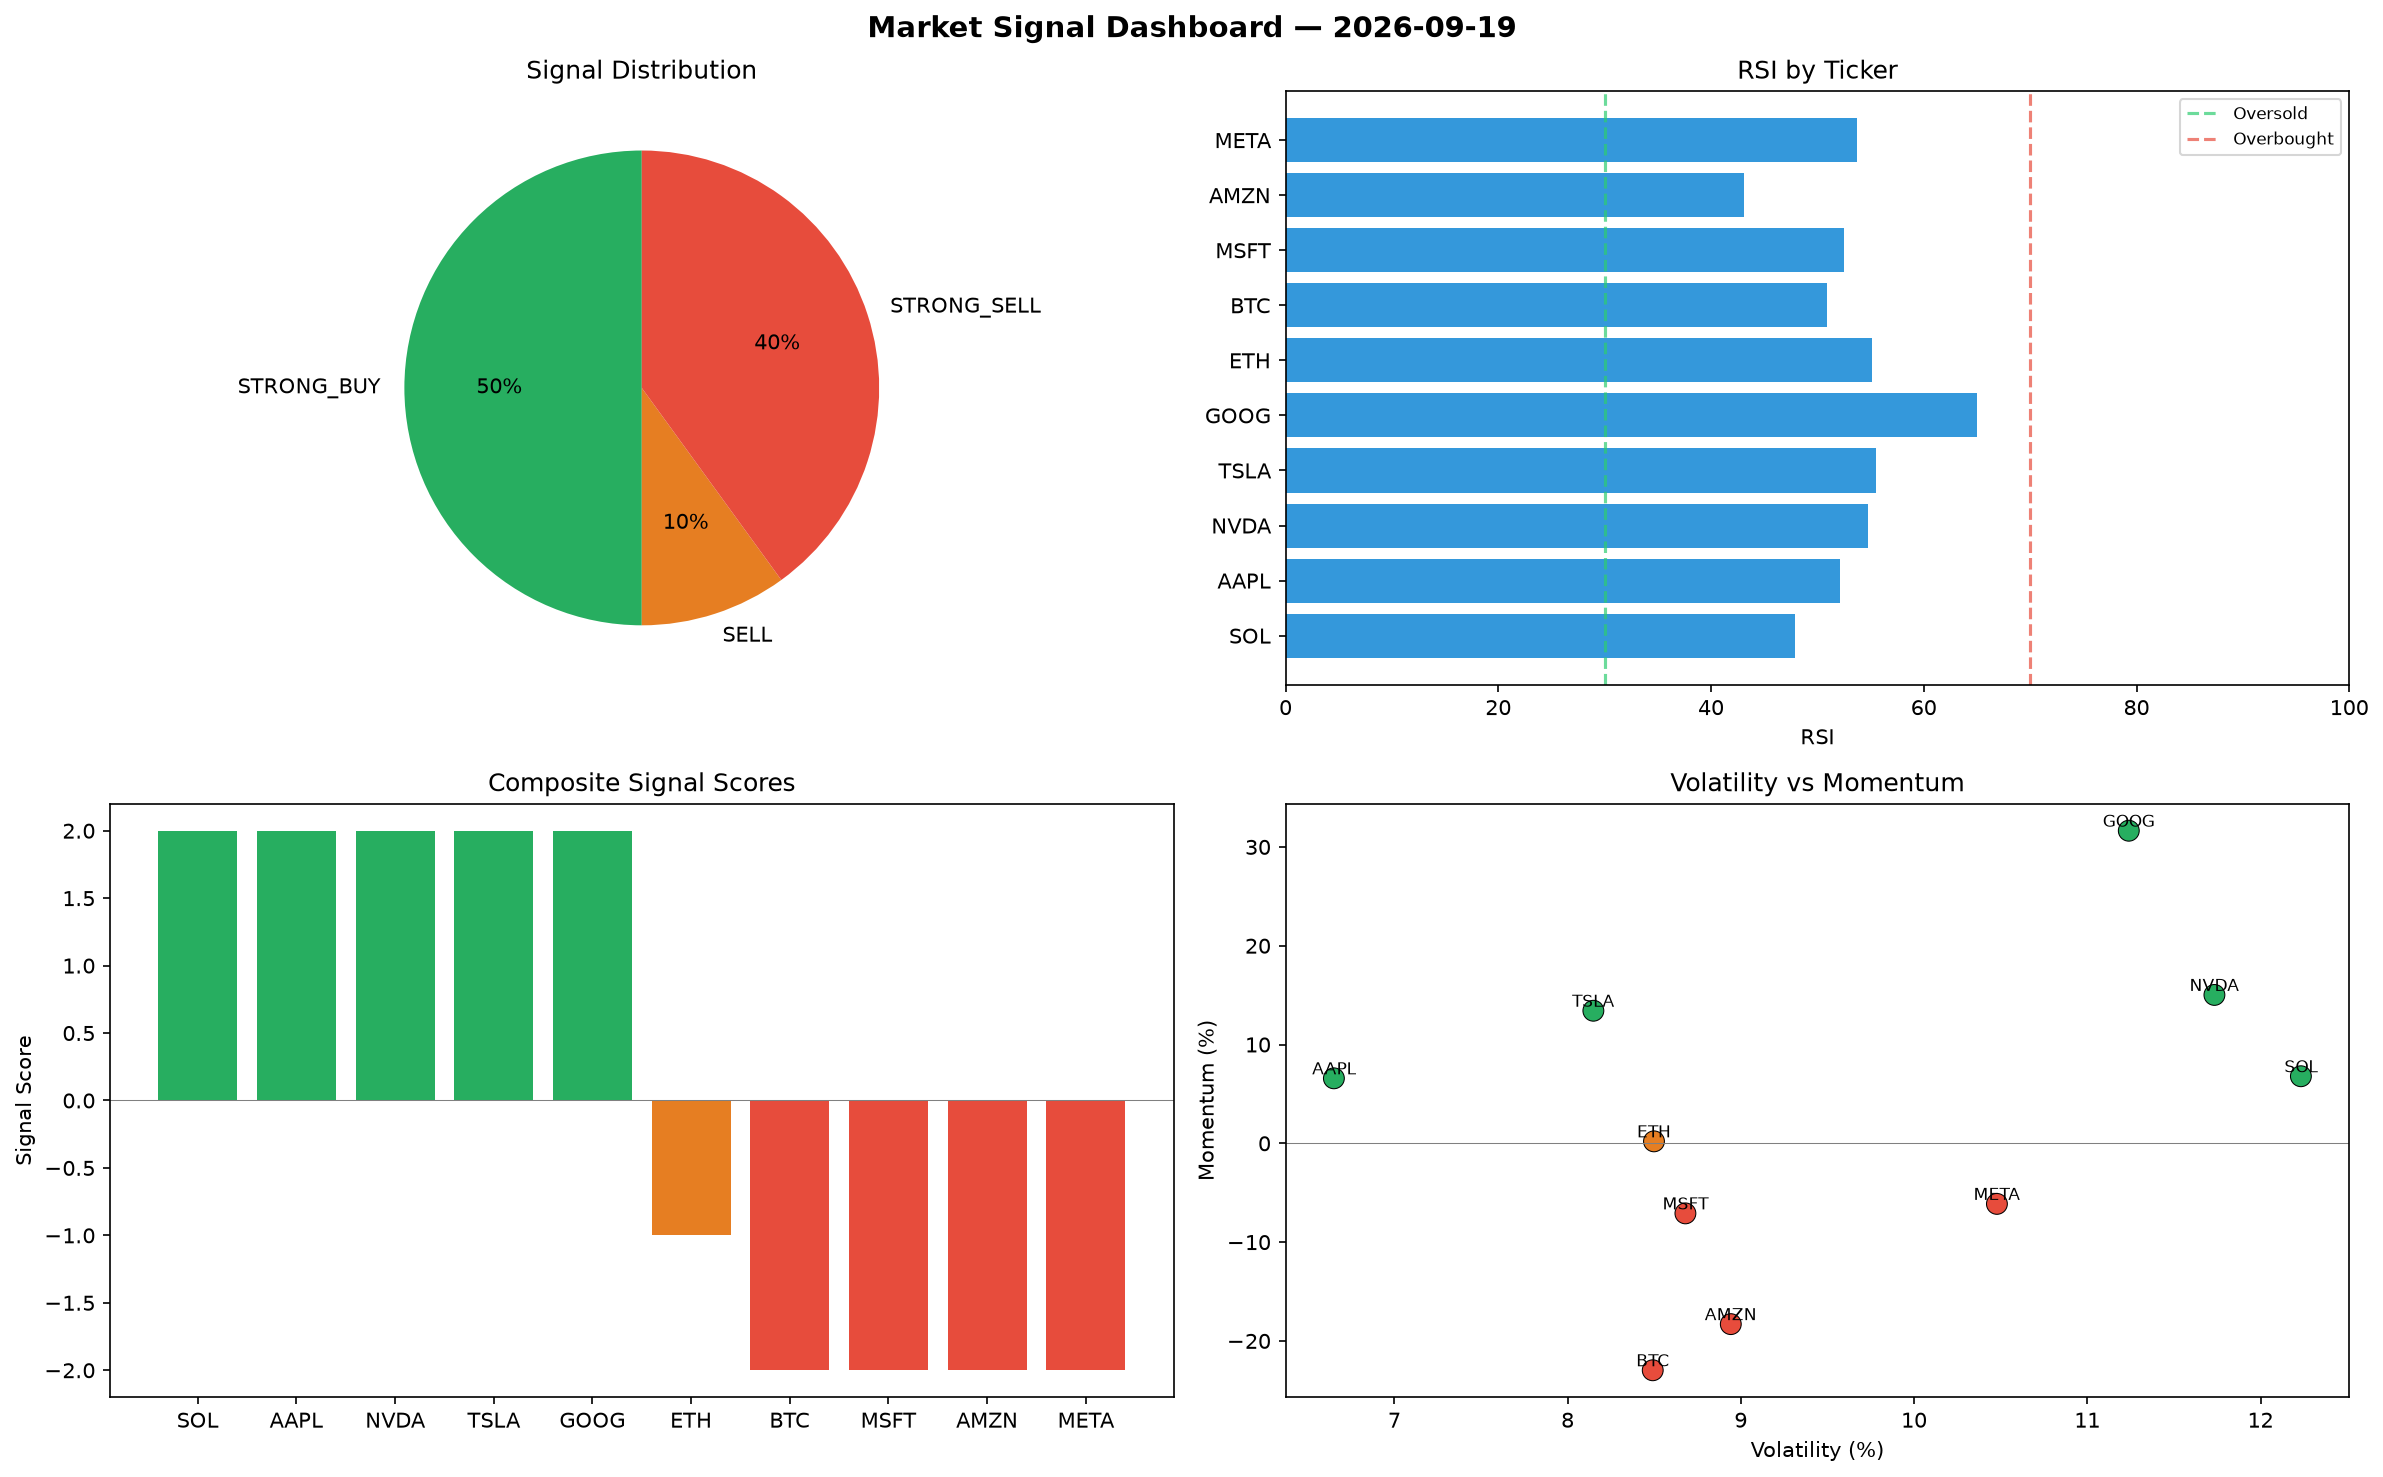
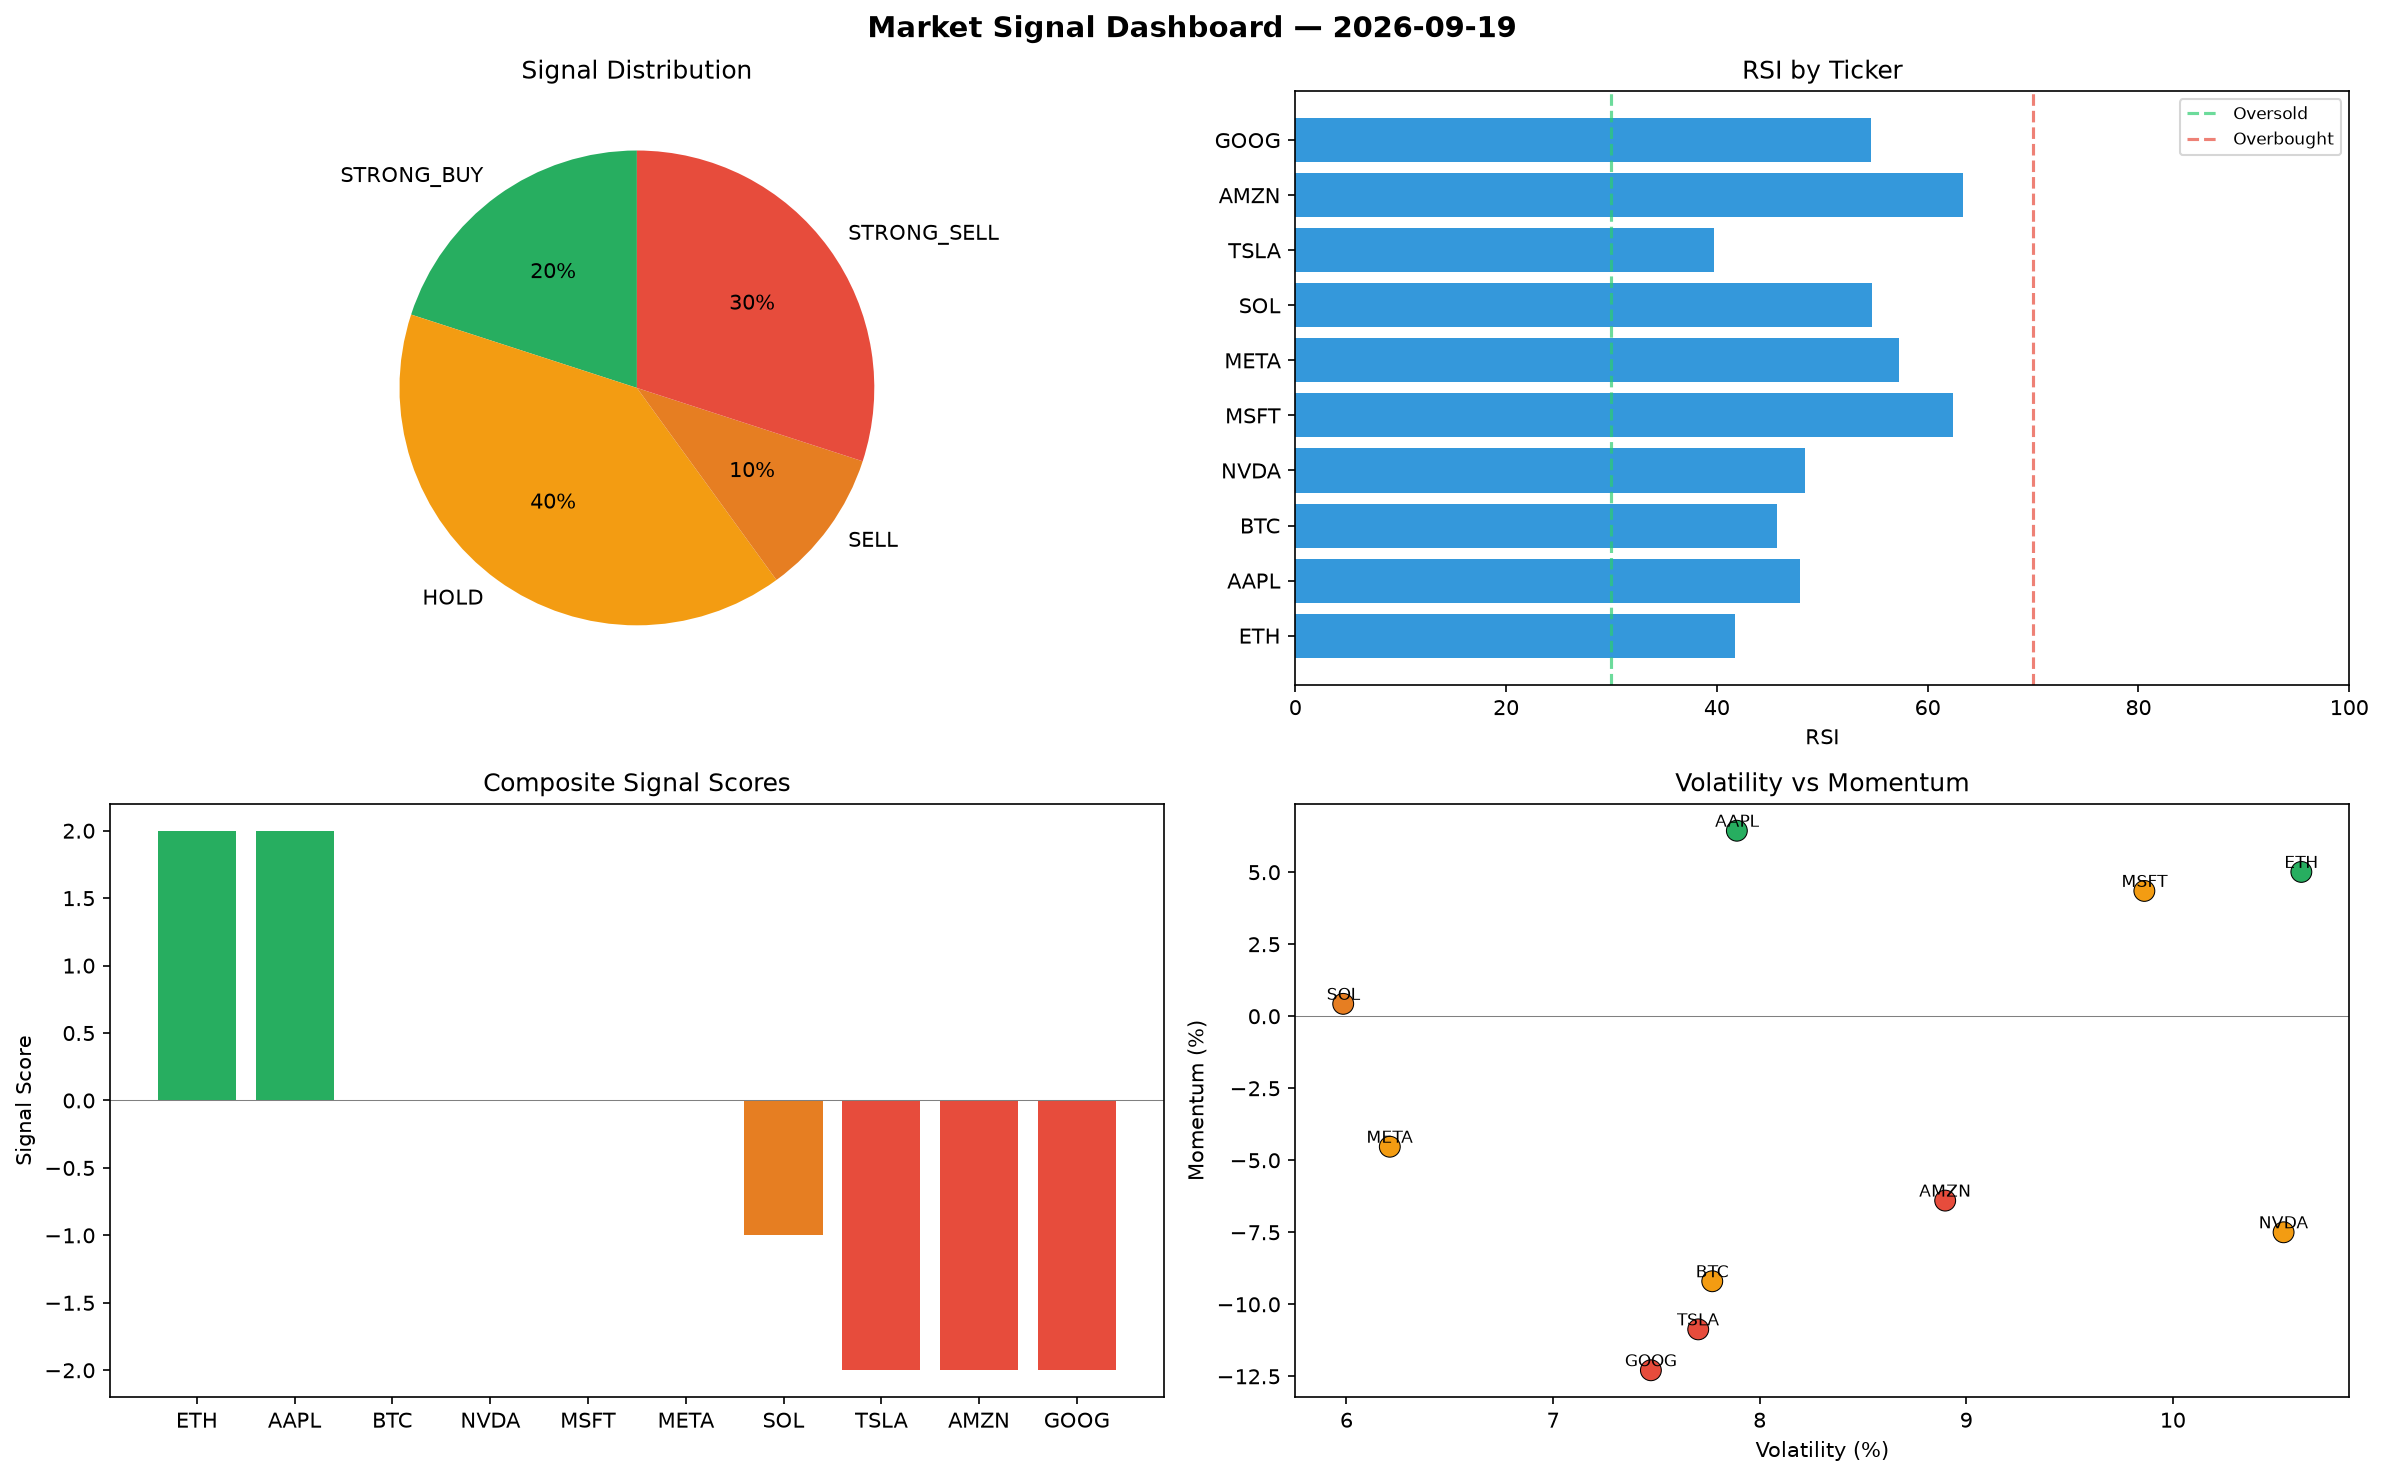
automated-bots: market signals 2026-09-19T12:36

diff --git a/logs/2026-09-19.md b/logs/2026-09-19.md
@@ -1,6 +1,6 @@
 # Market Signal Report — 2026-09-19
 
-**Run ID:** `a895f01271` | **Buy:** 5 | **Sell:** 5 | **Hold:** 0
+**Run ID:** `05849af231` | **Buy:** 2 | **Sell:** 4 | **Hold:** 4
 
 ![Dashboard](2026-09-19_dashboard.png)
 
@@ -8,28 +8,28 @@
 
 | Ticker | Price | Signal | Score | RSI | Momentum | Confidence |
 |--------|-------|--------|-------|-----|----------|------------|
-| SOL | $1479.01 | **STRONG_BUY** | 2 | 47.9 | 0.0679 | 0.5 |
-| AAPL | $665.7 | **STRONG_BUY** | 2 | 52.1 | 0.0658 | 0.5 |
-| NVDA | $2536.05 | **STRONG_BUY** | 2 | 54.78 | 0.1502 | 0.5 |
-| TSLA | $749.28 | **STRONG_BUY** | 2 | 55.49 | 0.1342 | 0.5 |
-| GOOG | $1618.15 | **STRONG_BUY** | 2 | 65.02 | 0.3164 | 0.5 |
-| ETH | $2013.74 | **SELL** | -1 | 55.13 | 0.002 | 0.25 |
-| BTC | $847.43 | **STRONG_SELL** | -2 | 50.92 | -0.2297 | 0.5 |
-| MSFT | $4599.6 | **STRONG_SELL** | -2 | 52.51 | -0.0709 | 0.5 |
-| AMZN | $1081.15 | **STRONG_SELL** | -2 | 43.12 | -0.183 | 0.5 |
-| META | $590.82 | **STRONG_SELL** | -2 | 53.75 | -0.0613 | 0.5 |
+| ETH | $4994.48 | **STRONG_BUY** | 2 | 41.71 | 0.0501 | 0.5 |
+| AAPL | $2378.72 | **STRONG_BUY** | 2 | 47.85 | 0.0644 | 0.5 |
+| BTC | $1230.7 | **HOLD** | 0 | 45.75 | -0.092 | 0.0 |
+| NVDA | $3954.34 | **HOLD** | 0 | 48.39 | -0.075 | 0.0 |
+| MSFT | $4317.37 | **HOLD** | 0 | 62.38 | 0.0435 | 0.0 |
+| META | $4485.88 | **HOLD** | 0 | 57.31 | -0.0453 | 0.0 |
+| SOL | $230.49 | **SELL** | -1 | 54.74 | 0.0043 | 0.25 |
+| TSLA | $1227.47 | **STRONG_SELL** | -2 | 39.71 | -0.1087 | 0.5 |
+| AMZN | $2957.69 | **STRONG_SELL** | -2 | 63.34 | -0.064 | 0.5 |
+| GOOG | $2245.56 | **STRONG_SELL** | -2 | 54.62 | -0.1229 | 0.5 |
 
 ## Delta vs Yesterday
 
 | Ticker | Today | Yesterday | Price Change | Signal Changed |
 |--------|-------|-----------|-------------|----------------|
-| SOL | STRONG_BUY | BUY | 📉 -23.05% | ⚠ YES |
-| AAPL | STRONG_BUY | STRONG_BUY | 📉 -85.54% | — |
-| NVDA | STRONG_BUY | STRONG_BUY | 📉 -18.74% | — |
-| TSLA | STRONG_BUY | SELL | 📉 -83.81% | ⚠ YES |
-| GOOG | STRONG_BUY | SELL | 📉 -66.55% | ⚠ YES |
-| ETH | SELL | HOLD | 📉 -35.73% | ⚠ YES |
-| BTC | STRONG_SELL | STRONG_SELL | 📉 -33.24% | — |
-| MSFT | STRONG_SELL | STRONG_BUY | 📈 127.35% | ⚠ YES |
-| AMZN | STRONG_SELL | STRONG_BUY | 📉 -54.07% | ⚠ YES |
-| META | STRONG_SELL | SELL | 📈 202.49% | ⚠ YES |
+| ETH | STRONG_BUY | HOLD | 📈 59.41% | ⚠ YES |
+| AAPL | STRONG_BUY | STRONG_BUY | 📉 -48.33% | — |
+| BTC | HOLD | STRONG_SELL | 📉 -3.05% | ⚠ YES |
+| NVDA | HOLD | STRONG_BUY | 📈 26.7% | ⚠ YES |
+| MSFT | HOLD | STRONG_BUY | 📈 113.4% | ⚠ YES |
+| META | HOLD | SELL | 📈 2196.68% | ⚠ YES |
+| SOL | SELL | BUY | 📉 -88.01% | ⚠ YES |
+| TSLA | STRONG_SELL | SELL | 📉 -73.48% | ⚠ YES |
+| AMZN | STRONG_SELL | STRONG_BUY | 📈 25.65% | ⚠ YES |
+| GOOG | STRONG_SELL | SELL | 📉 -53.59% | ⚠ YES |
